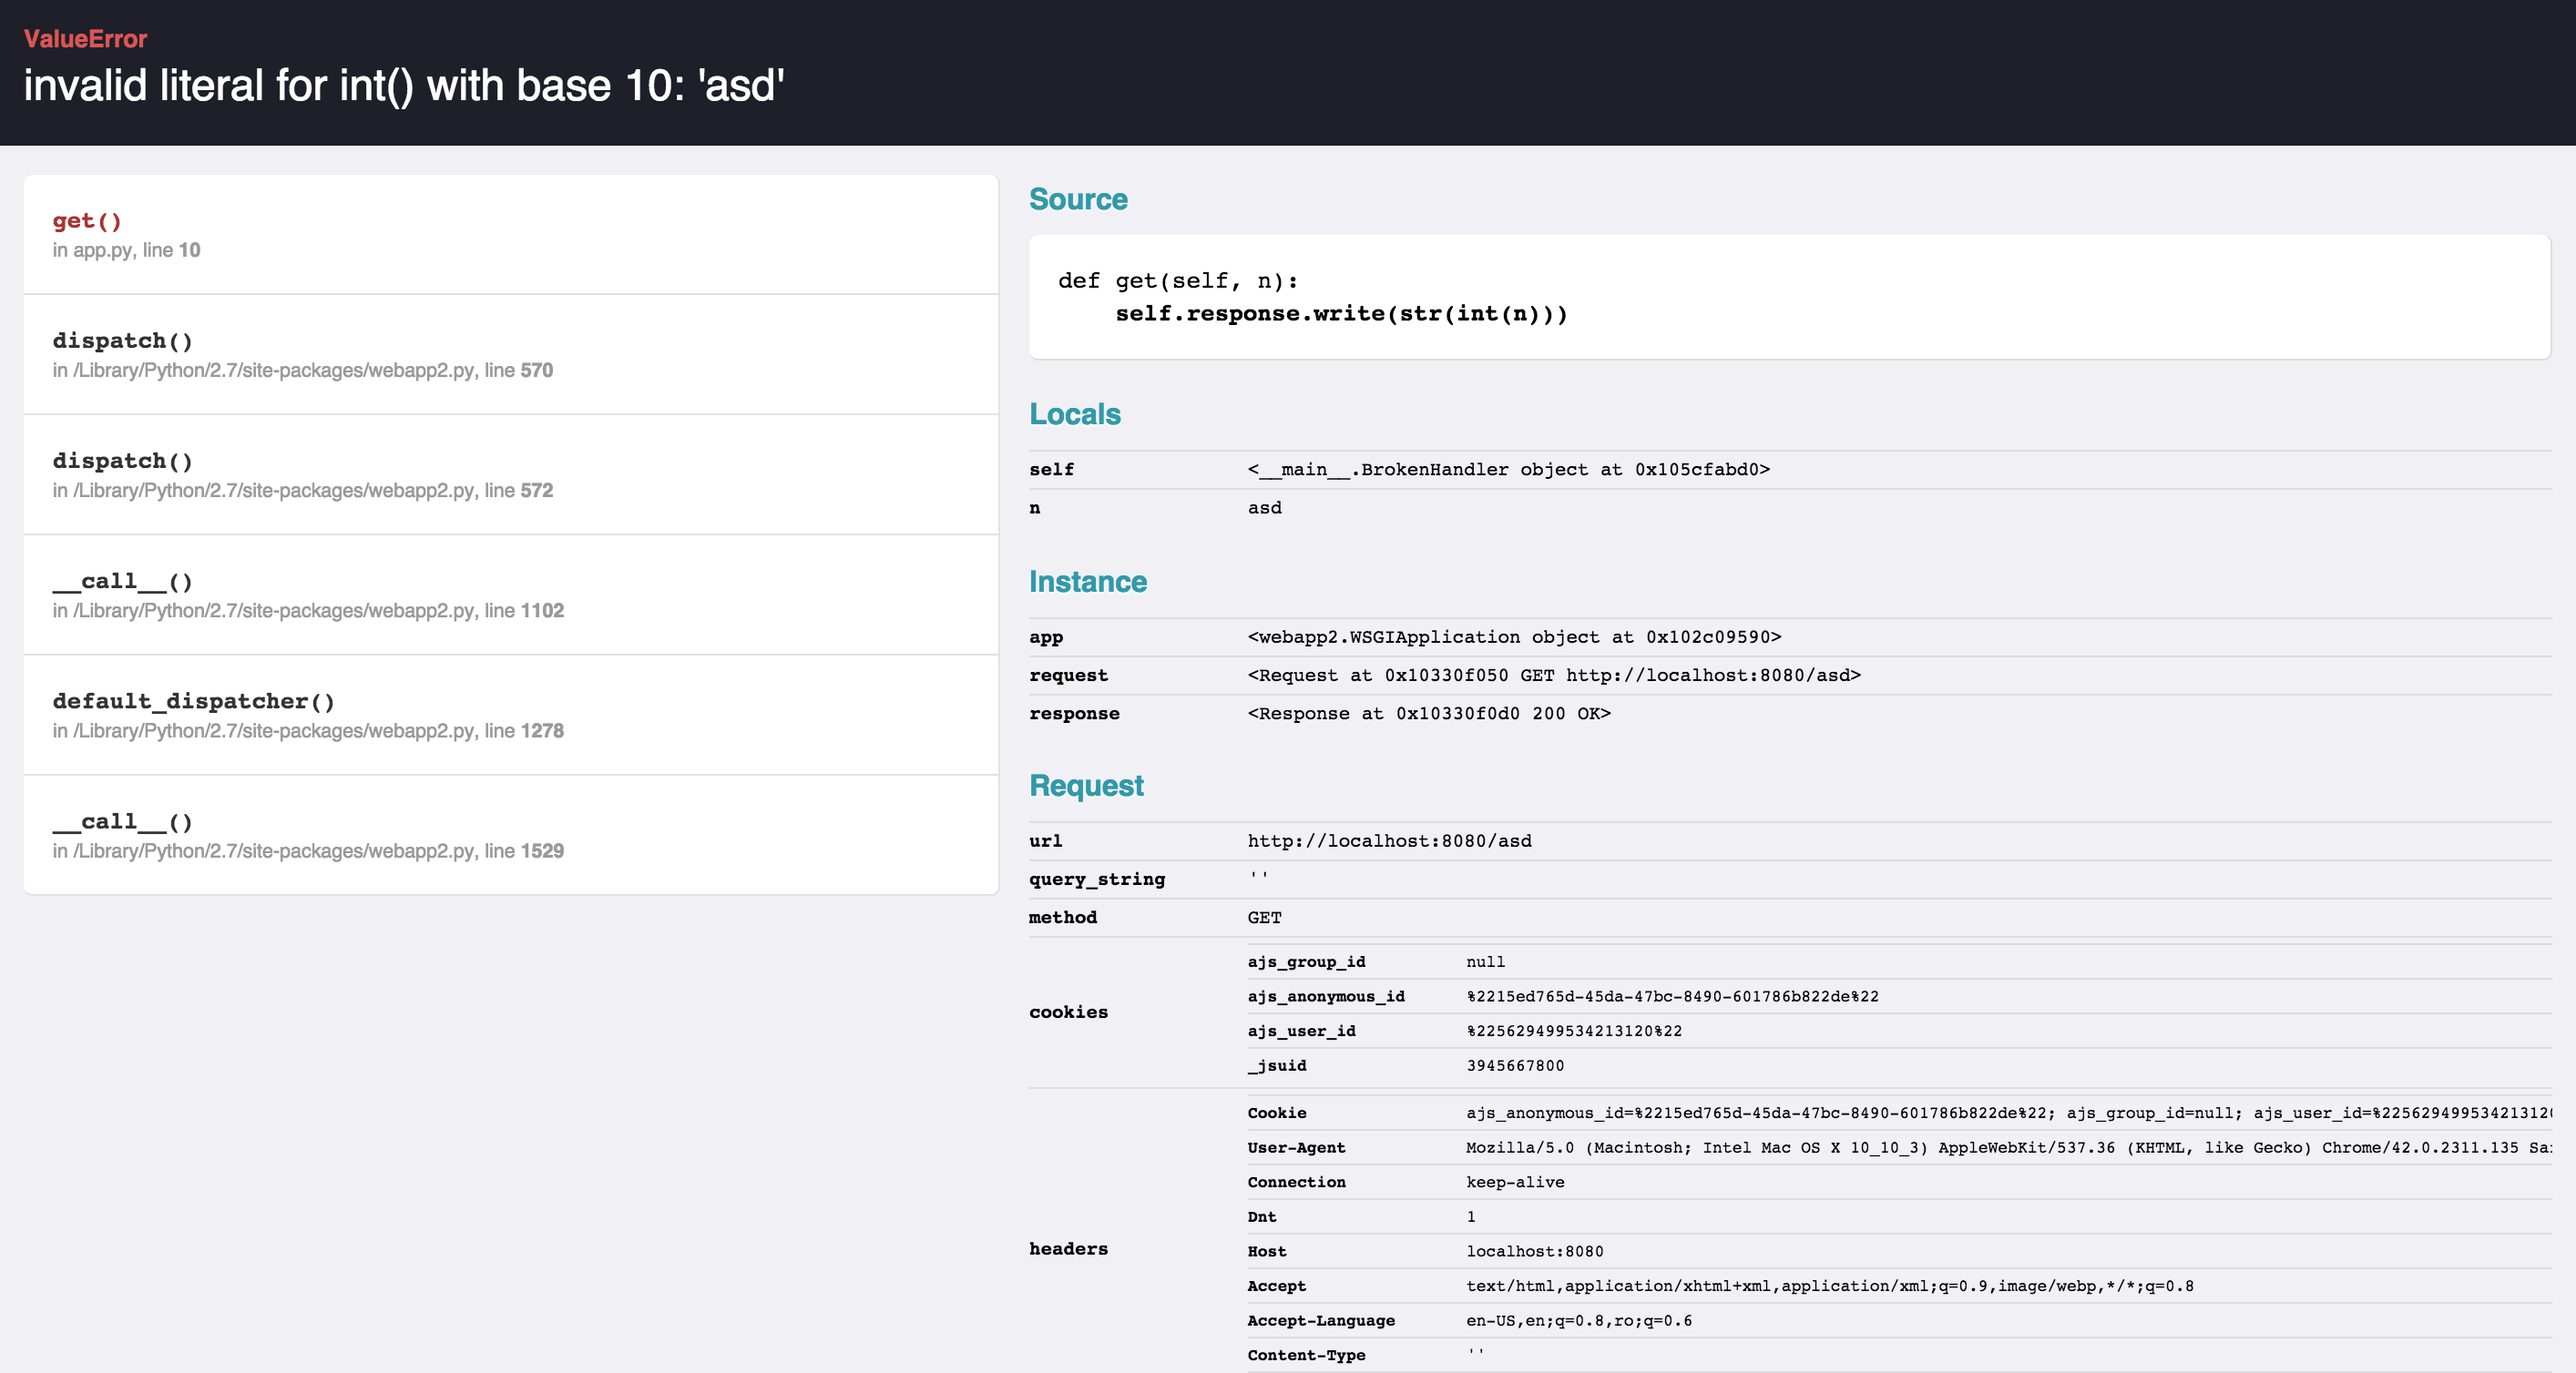
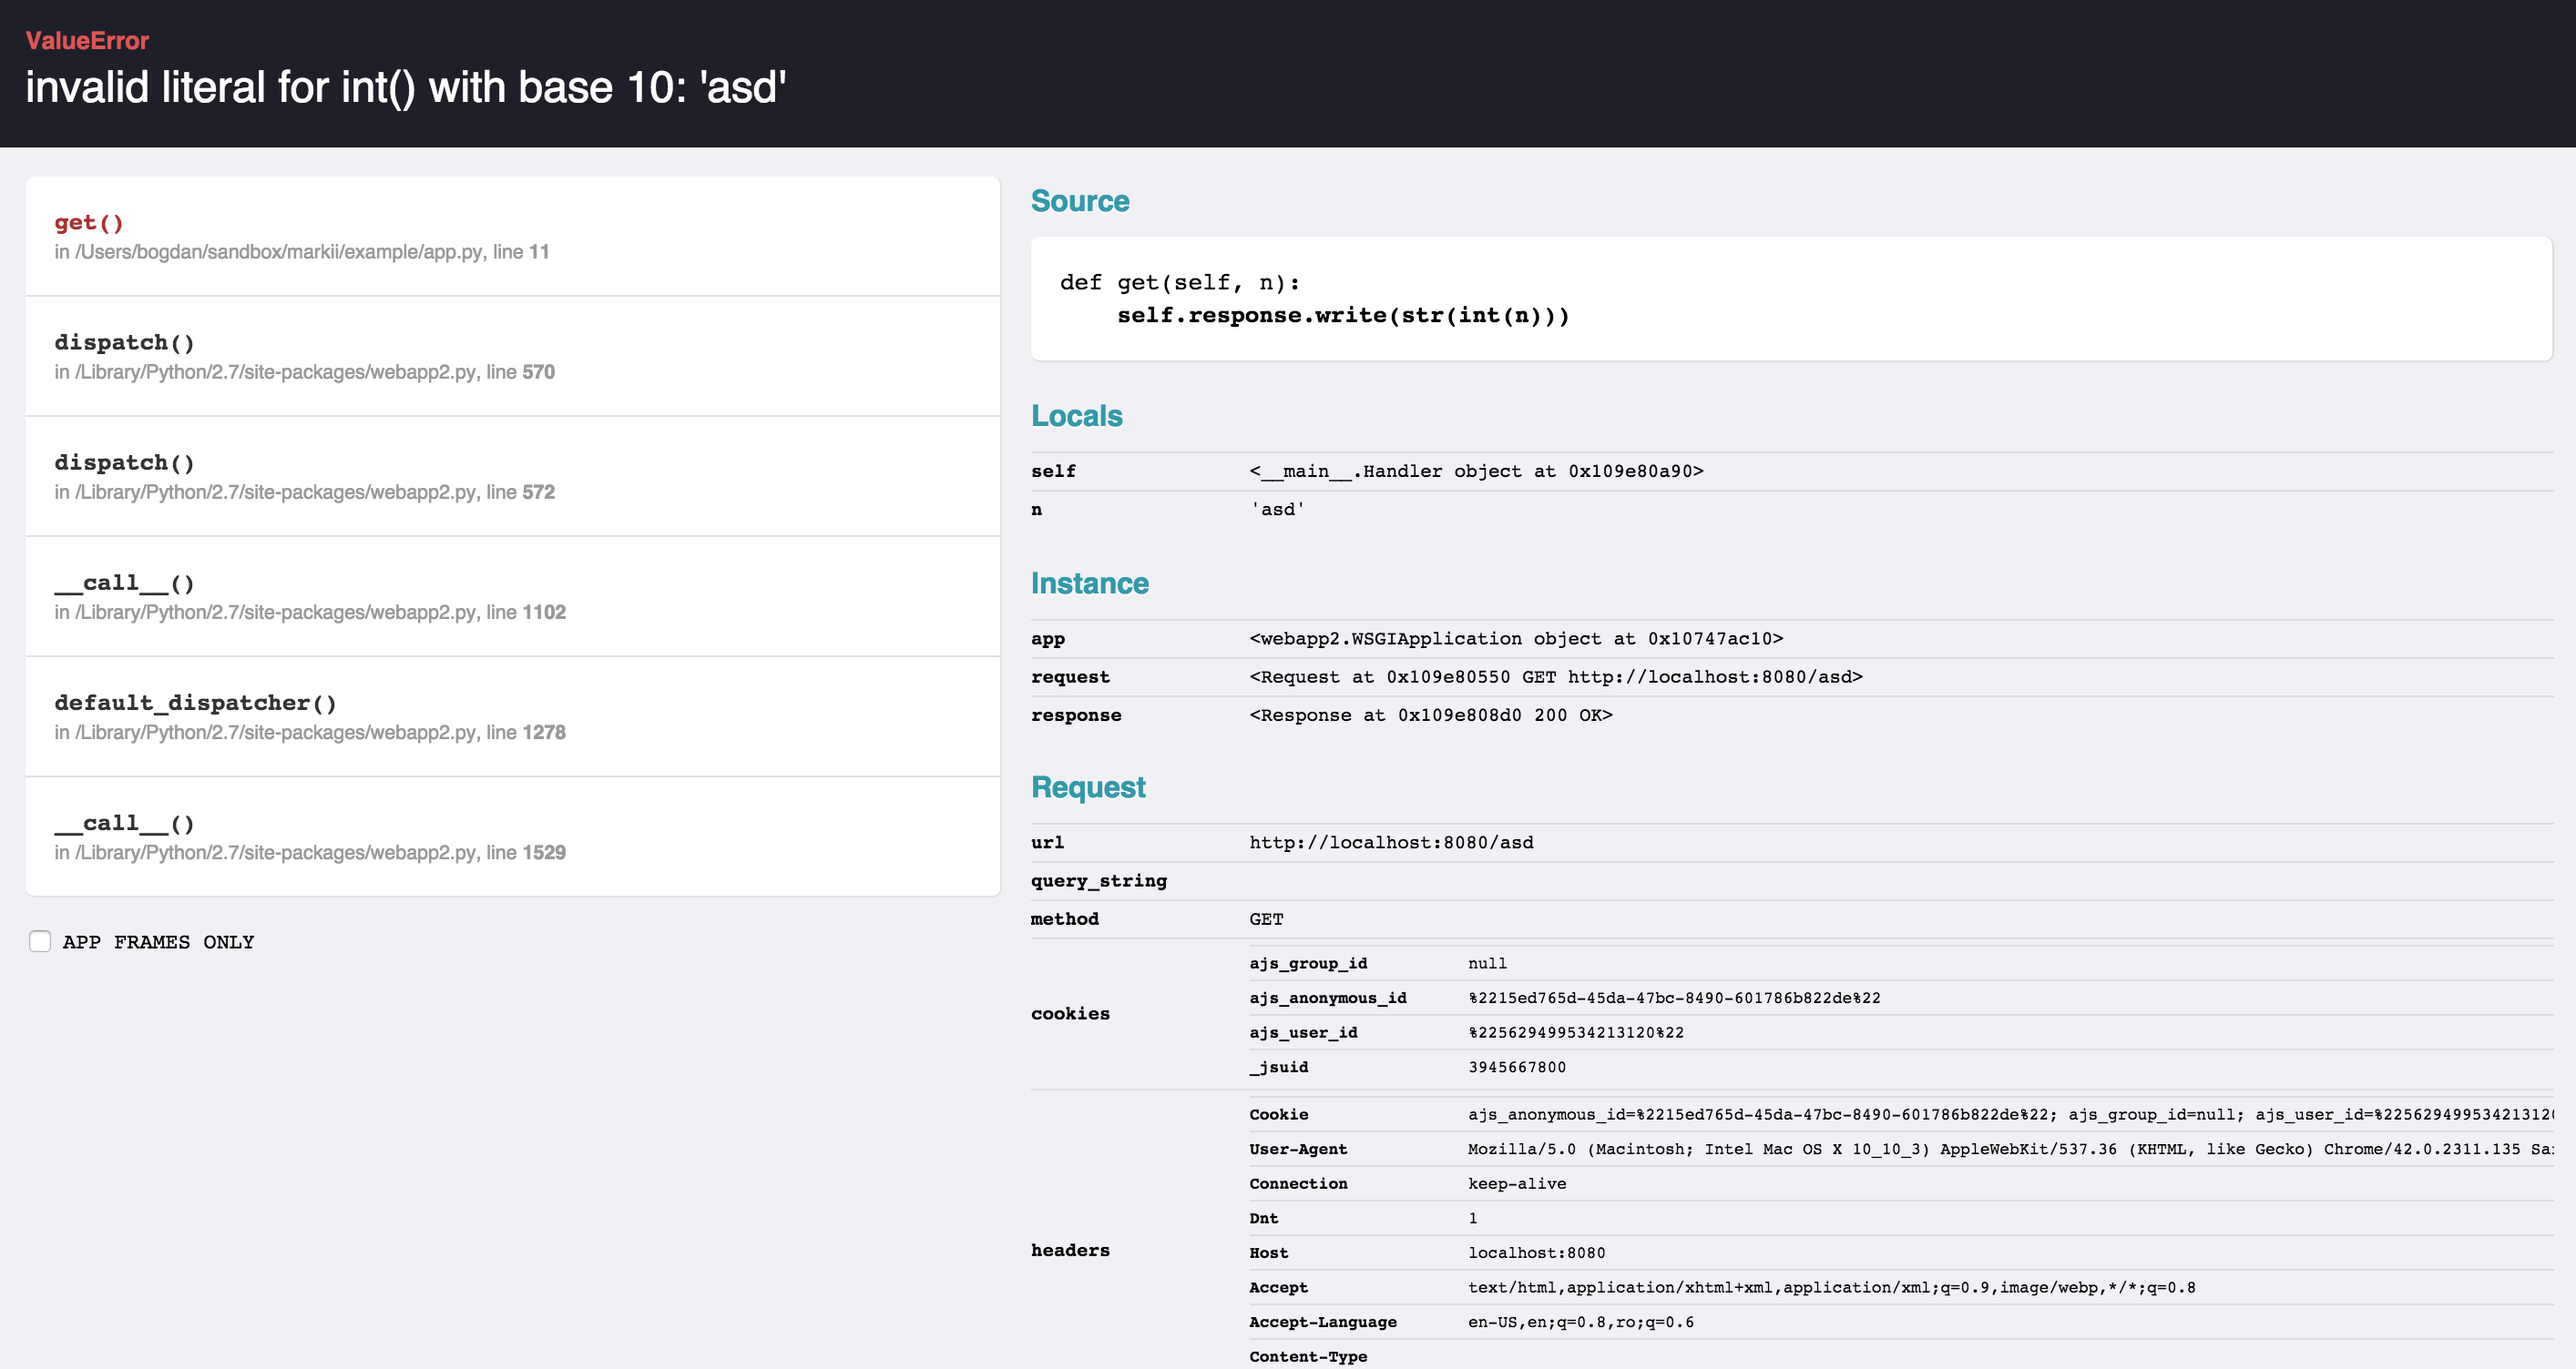
add a way to hide non-app traces

diff --git a/markii/static/template.html b/markii/static/template.html
@@ -31,17 +31,22 @@
 
         <div id="lhs">
             <ul id="frames">
-                {% for func, _, _, filename, _, line, _ in frames %}
-                    <li class="func" data-frame="{{ loop.index }}">
+                {% for func, _, _, filename, _, line, _, app_local in frames %}
+                    <li class="func" data-frame="{{ loop.index }}" data-app-local="{{ app_local }}">
                         <h4>{{ func }}()</h4>
                         <h6>in {{ filename }}, line <strong>{{ line }}</strong></h6>
                     </li>
                 {% endfor %}
             </ul>
+
+            <div id="toggle">
+                <input type="checkbox" id="app-local-toggle" />
+                <label for="app-local-toggle">App frames only</label>
+            </div>
         </div>
 
         <div id="rhs">
-            {% for func, func_locals, instance_locals, filename, source, line, lines in frames %}
+            {% for func, func_locals, instance_locals, filename, source, line, lines, _ in frames %}
                 <div class="frame" data-frame="{{ loop.index }}">
                     {% if source %}
                         <div class="section">

diff --git a/markii/static/markii.js b/markii/static/markii.js
@@ -1,6 +1,7 @@
 $(function() {
     var $frames = $("div.frame");
     var $funcs = $("ul#frames li.func");
+    var $toggle = $("input#app-local-toggle");
 
     $funcs.on("click", function() {
         var $func = $(this);
@@ -13,4 +14,11 @@ $(function() {
         $frame.show();
     });
     $("ul#frames li.func:first-child").trigger("click");
+
+    $toggle.on("change", function() {
+        $funcs.show();
+        if ($toggle.is(":checked")) {
+            $("ul#frames li.func[data-app-local=False]").hide();
+        }
+    });
 });

diff --git a/markii/static/markii.css b/markii/static/markii.css
@@ -37,6 +37,13 @@ div#rhs {
     float: left;
 }
 
+div#lhs div#toggle {
+    margin-left: 1.5em;
+    font-family: monospace;
+    font-size: 0.9em;
+    text-transform: uppercase;
+}
+
 div#rhs {
     width: 60%;
 }

diff --git a/markii/markii.py b/markii/markii.py
@@ -55,12 +55,12 @@ def dict_to_kv(d):
     return {k: repr(v) for k, v in d.iteritems()}
 
 
-def markii(exception, request=None, app_root=None):
+def markii(exception, request=None, app_root=""):
     """Inspects the current exception and generates a static HTML dump
     with its frame information.
 
     :param Exception exception:
-      The exception to inspect.
+      The exception being inspected.
     :param dict request:
       A dict containing information about the request.
     :param str app_root:
@@ -77,6 +77,7 @@ def markii(exception, request=None, app_root=None):
     try:
         for item in items:
             frame, filename, line, func, lines, index = item
+            app_local = filename.startswith(app_root)
             f_locals = frame.f_locals
             try:
                 lines = [l.strip() for l in lines]
@@ -95,7 +96,7 @@ def markii(exception, request=None, app_root=None):
 
                 frames.append((
                     func, func_locals, instance_locals,
-                    filename, source, line, lines
+                    filename, source, line, lines, app_local
                 ))
             finally:
                 del f_locals

diff --git a/example/app.py b/example/app.py
@@ -1,4 +1,5 @@
 import webapp2
+import os
 
 from functools import partial
 from markii.frameworks.webapp2 import handle_error
@@ -10,10 +11,11 @@ class Handler(webapp2.RequestHandler):
         self.response.write(str(int(n)))
 
 
+root = os.path.abspath(os.path.dirname(__file__))
 app = webapp2.WSGIApplication([
     webapp2.Route(r"/<n:.*>", handler=Handler)
 ], debug=True)
-app.error_handlers[400] = partial(handle_error, code=400)
-app.error_handlers[404] = partial(handle_error, code=404)
-app.error_handlers[500] = partial(handle_error, code=500)
+app.error_handlers[400] = partial(handle_error, code=400, app_root=root)
+app.error_handlers[404] = partial(handle_error, code=404, app_root=root)
+app.error_handlers[500] = partial(handle_error, code=500, app_root=root)
 httpserver.serve(app, host="127.0.0.1", port="8080")
